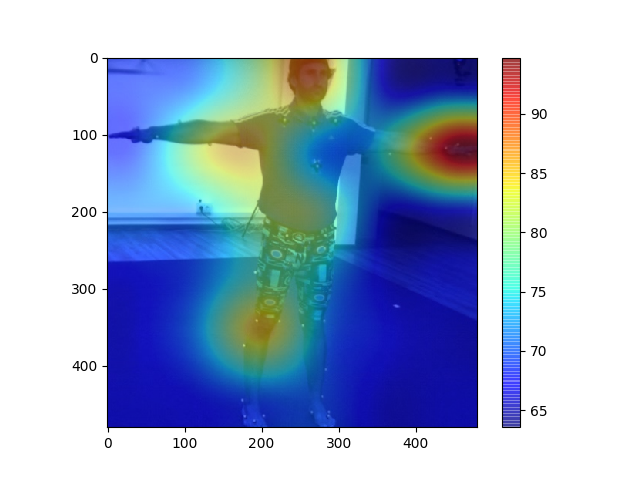
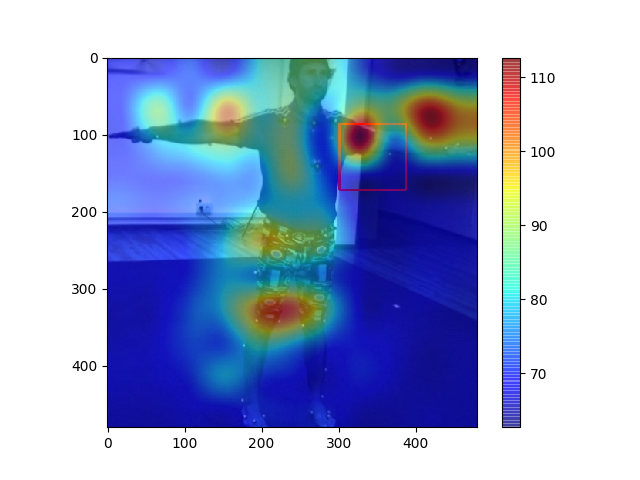
Occlusion Analysis Updated

diff --git a/demo_test.py b/demo_test.py
@@ -1,13 +1,10 @@
 """
 Demo code
-
 To run our method, you need a bounding box around the person. The person needs to be centered inside the bounding box and the bounding box should be relatively tight. You can either supply the bounding box directly or provide an [OpenPose](https://github.com/CMU-Perceptual-Computing-Lab/openpose) detection file. In the latter case we infer the bounding box from the detections.
-
 In summary, we provide 3 different ways to use our demo code and models:
 1. Provide only an input image (using ```--img```), in which case it is assumed that it is already cropped with the person centered in the image.
 2. Provide an input image as before, together with the OpenPose detection .json (using ```--openpose```). Our code will use the detections to compute the bounding box and crop the image.
 3. Provide an image and a bounding box (using ```--bbox```). The expected format for the json file can be seen in ```examples/im1010_bbox.json```.
-
 Example with OpenPose detection .json
 ```
 python3 demo.py --checkpoint=data/model_checkpoint.pt --img=examples/im1010.png --openpose=examples/im1010_openpose.json
@@ -20,7 +17,6 @@ Example with cropped and centered image
 ```
 python3 demo.py --checkpoint=data/model_checkpoint.pt --img=examples/im1010.png
 ```
-
 Running the previous command will save the results in ```examples/im1010_{shape,shape_side}.png```. The file ```im1010_shape.png``` shows the overlayed reconstruction of human shape. We also render a side view, saved in ```im1010_shape_side.png```.
 """
 
@@ -36,10 +32,6 @@ from utils.imutils import crop
 from utils.renderer import Renderer
 import config
 import constants
-from torch.utils.data import DataLoader
-import itertools
-import constants
-from datasets import BaseDataset
 
 parser = argparse.ArgumentParser()
 parser.add_argument('--checkpoint', required=True, help='Path to pretrained checkpoint')
@@ -126,70 +118,59 @@ if __name__ == '__main__':
         pred_output = smpl(betas=pred_betas, body_pose=pred_rotmat[:,1:], global_orient=pred_rotmat[:,0].unsqueeze(1), pose2rot=False)
         pred_vertices = pred_output.vertices
     
-    # Get the predicted 3d joints
-    # Get 14 predicted joints from the mesh
-    J_regressor = torch.from_numpy(np.load(config.JOINT_REGRESSOR_H36M)).float().to(device)
-    joint_mapper_h36m = constants.H36M_TO_J14
-    joint_mapper_gt = constants.J24_TO_J14
-    pred_keypoints_3d = torch.matmul(J_regressor, pred_vertices)
-    pred_pelvis = pred_keypoints_3d[:, [0],:].clone()
-    pred_keypoints_3d = pred_keypoints_3d[:, joint_mapper_h36m, :]
-    pred_keypoints_3d = pred_keypoints_3d - pred_pelvis 
-    pred_keypoints_3d = pred_keypoints_3d.to(device)
-    device = torch.device('cuda') if torch.cuda.is_available() else torch.device('cpu')
+    # Calculate camera parameters for rendering
+    camera_translation = torch.stack([pred_camera[:,1], pred_camera[:,2], 2*constants.FOCAL_LENGTH/(constants.IMG_RES * pred_camera[:,0] +1e-9)],dim=-1)
+    print(camera_translation)
 
-    dataset = BaseDataset(None, 'h36m-p2', is_train=False)
-    data_loader = DataLoader(dataset, batch_size=1, shuffle=False)
-    batch_idx = 15
-    batch = next(itertools.islice(data_loader, batch_idx, None))
-
-    gt_keypoints_3d = batch['pose_3d']
-    joint_mapper_gt = constants.J24_TO_J14
-    gt_keypoints_3d = gt_keypoints_3d[:, joint_mapper_gt, :-1]
-    gt_keypoints_3d = gt_keypoints_3d.to(device)
-
-
-
-    error = torch.sqrt(((pred_keypoints_3d - gt_keypoints_3d) ** 2).sum(dim=-1)).mean(dim=-1).cpu().numpy()
-    print(error[0]*1000)
-    # from utils.geometry import perspective_projection
-    # # camera_center = torch.zeros(1, 2, device= device)
-    # # Calculate camera parameters for rendering
-    # camera_translation = torch.stack([pred_camera[:,1], pred_camera[:,2], 2*constants.FOCAL_LENGTH/(constants.IMG_RES * pred_camera[:,0] +1e-9)],dim=-1)
-    # camera_center = torch.tensor([constants.IMG_RES // 2, constants.IMG_RES // 2])
-    # pred_keypoints_2d = perspective_projection(pred_keypoints_3d,
-    #                                                rotation=torch.eye(3, device=device).unsqueeze(0).expand(1, -1, -1),
-    #                                                translation=camera_translation,
-    #                                                focal_length=constants.FOCAL_LENGTH,
-    #                                                camera_center=camera_center)
 
     
-    # pred_keypoints_2d = pred_keypoints_2d[0].cpu().numpy()
+   
+    # Get 3d predicted points and convert it to 2d
+    J_regressor = torch.from_numpy(np.load(config.JOINT_REGRESSOR_H36M)).float()
+    J_regressor = J_regressor.to(device)
+    pred_keypoints_3d = torch.matmul(J_regressor, pred_vertices)
+    # pred_pelvis = pred_keypoints_3d[:, [0],:].clone()
+    joint_mapper_h36m = constants.H36M_TO_J17
+    pred_keypoints_3d = pred_keypoints_3d[:, joint_mapper_h36m, :]
+    print(pred_keypoints_3d)
+    # pred_keypoints_3d = pred_keypoints_3d - pred_pelvis 
+    # pred_keypoints_3d = pred_keypoints_3d + 1 
+    from utils.geometry import perspective_projection
+    # camera_center = torch.zeros(1, 2, device= device)
+    
+    camera_center = torch.tensor([constants.IMG_RES // 2, constants.IMG_RES // 2])
+    pred_keypoints_2d = perspective_projection(pred_keypoints_3d,
+                                                   rotation=torch.eye(3, device=device).unsqueeze(0).expand(1, -1, -1),
+                                                   translation=camera_translation,
+                                                   focal_length=constants.FOCAL_LENGTH,
+                                                   camera_center=camera_center)
 
-
-    # camera_translation = camera_translation[0].cpu().numpy()
-    # pred_vertices = pred_vertices[0].cpu().numpy()
+    
+    pred_keypoints_2d = pred_keypoints_2d[0].cpu().numpy()
+    pred_vertices = pred_vertices[0].cpu().numpy()
+    camera_translation = camera_translation[0].cpu().numpy()
     img = img.permute(1,2,0).cpu().numpy()
-    img = 255 * img[:,:,::-1]
-    # for i in range(pred_keypoints_2d.shape[0]):
-    #     cv2.circle(img, (int(pred_keypoints_2d[i][0]), int(pred_keypoints_2d[i][1])), 1, color = (255, 0, 0), thickness=-1)
-    # i = 6
-    # cv2.circle(img, (int(pred_keypoints_2d[i][0]), int(pred_keypoints_2d[i][1])), 3, color = (255, 0, 0), thickness=-1)
-    # Joint names: 
+
+    
     # Render parametric shape
-    # img_shape = renderer(pred_vertices, camera_translation, img)
+    img_shape = renderer(pred_vertices, camera_translation, img)
+    img_shape_r = 255* img_shape[:,:,::-1]
+    pred_keypoints_2d = pred_keypoints_2d[:14]
+    # for i in range(pred_keypoints_2d.shape[0]):
+    i = 13
+    cv2.circle(img_shape_r, (int(pred_keypoints_2d[i][0]), int(pred_keypoints_2d[i][1])), 5, color = (255, 0, 0), thickness=-1)
     
     # Render side views
-    # aroundy = cv2.Rodrigues(np.array([0, np.radians(90.), 0]))[0]
-    # center = pred_vertices.mean(axis=0)
-    # rot_vertices = np.dot((pred_vertices - center), aroundy) + center
+    aroundy = cv2.Rodrigues(np.array([0, np.radians(90.), 0]))[0]
+    center = pred_vertices.mean(axis=0)
+    rot_vertices = np.dot((pred_vertices - center), aroundy) + center
     
     # Render non-parametric shape
-    # img_shape_side = renderer(rot_vertices, camera_translation, np.ones_like(img))
+    img_shape_side = renderer(rot_vertices, camera_translation, np.ones_like(img))
 
-    # outfile = args.img.split('.')[0] if args.outfile is None else args.outfile
+    outfile = args.img.split('.')[0] if args.outfile is None else args.outfile
 
     # Save reconstructions
-    # cv2.imwrite(outfile + '_shape.png', 255 * img_shape[:,:,::-1])
-    # cv2.imwrite(outfile + '_shape_side.png', 255 * img_shape_side[:,:,::-1])
-    # cv2.imwrite('test.jpg', img)
+    cv2.imwrite(outfile + '_shape.png', 255 * img_shape[:,:,::-1])
+    cv2.imwrite(outfile + '_shape_r.png', img_shape_r)
+    cv2.imwrite(outfile + '_shape_side.png', 255 * img_shape_side[:,:,::-1])

diff --git a/test.py b/test.py
@@ -7,15 +7,102 @@
 #     os.rename(i, image_list[1000][:36] + "s" + image_list[1000][36:])
 
 import numpy as np
-import cv2
-from utils.imutils import crop
+# import cv2
+# from utils.imutils import crop
 
 data = np.load("data/dataset_extras/3dpw_test.npz")
-print(data['imgname'][27900])
-img_path = "data/3DPW/" + data['imgname'][27900]
+# data = np.load("data/dataset_extras/h36m_valid_protocol2.npz")
+# print(data.files)
+# print(data['S'][0].shape)
+# print(data['keypoints'][27900])
+# for i in range(0, len(data['imgname']), 1000):
+#     print(i)
+#     img_path = "data/3DPW/" + data['imgname'][i]
+#     print(img_path)
+# img_path = "data/3DPW/" + data['imgname'][26893]
 # print(img_path)
-img = cv2.imread(img_path)
+# img = cv2.imread(img_path)
 # center = data['center'][0]
 # scale = data['scale'][0]
 # img = crop(img, center, scale, (224, 224))
-cv2.imwrite('test.jpg', img)
+# cv2.imwrite('test.jpg', img)
+
+import itertools
+from datasets import BaseDataset
+from torch.utils.data import DataLoader
+import torch
+# import cv2
+# import constants
+# from utils.geometry import perspective_projection
+import numpy as np
+from tqdm import tqdm
+# Load the dataloader
+device = torch.device('cuda') if torch.cuda.is_available() else torch.device('cpu')
+dataset_name = '3dpw'
+dataset = BaseDataset(None, dataset_name, is_train=False)
+batch_size = 1000
+data_loader = DataLoader(dataset, batch_size=batch_size, shuffle=False)
+for batch_idx, batch in enumerate(tqdm(data_loader, desc='Eval', total=len(data_loader))):
+    print(batch['imgname'][-1])
+
+
+
+# batch_idx = 8000-810
+# batch = next(itertools.islice(data_loader, batch_idx, None))
+
+# img = batch['img']
+# keypoints = batch['pose']
+
+
+# # preparing the image
+# from utils.imutils import crop
+# img_orig = cv2.imread(batch['imgname'][0])
+# output_size = 224
+# print(batch['imgname'][0])
+# center = batch['center'][0]
+# scale = batch['scale'][0]
+# img_crop = crop(img_orig, center, scale, (output_size, output_size))
+# cv2.imwrite('./examples/image_00000.jpg', img_crop)
+
+
+# camera_translation = batch['translation'].to(device)
+# # #preparing 3D keypoints
+# keypoints = torch.reshape(keypoints, (-1, 24, 3))
+# joint_mapper_h36m = constants.H36M_TO_J17
+# keypoints = keypoints[:, joint_mapper_h36m, :]
+# keypoints = keypoints [:, :14, :].to(device)
+# # keypoints = 255 * keypoints + 112
+# print(keypoints)
+
+
+# # Projecting 3D keypoints to 2D keypoints
+
+# camera_center = torch.tensor([constants.IMG_RES // 2, constants.IMG_RES // 2])
+# pred_keypoints_2d = perspective_projection(keypoints,
+#                                                 rotation=torch.eye(3, device=device).unsqueeze(0).expand(1, -1, -1),
+#                                                 translation=camera_translation,
+#                                                 focal_length=constants.FOCAL_LENGTH,
+#                                                 camera_center=camera_center)
+# pred_keypoints_2d = pred_keypoints_2d[0].cpu().numpy()
+
+
+
+# # Preparing the image for visualization
+# img = img * torch.tensor([0.229, 0.224, 0.225], device=img.device).reshape(1, 3, 1, 1)
+# img = img + torch.tensor([0.485, 0.456, 0.406], device=img.device).reshape(1, 3, 1, 1)
+# img = img[0].permute(1,2,0).cpu().numpy()
+# img = 255 * img[:,:,::-1]
+# imgc = img.copy()
+
+# for i in range(14):
+#     # cv2.circle(imgc, (int(pred_keypoints_2d[i][0]), int(pred_keypoints_2d[i][1])), 5, color = (255, 0, 0), thickness=-1)
+#     cv2.circle(imgc, (int(keypoints[0][i][0]), int(keypoints[0][i][1])), 5, color = (255, 0, 0), thickness=-1)
+
+
+# cv2.imwrite('test.jpg', imgc)
+
+
+# # img = cv2.imread(batch['imgname'][0])
+
+# # print(batch['img'][0])
+# # print(batch['pose'][0])

diff --git a/datasets/preprocess/pw3d.py b/datasets/preprocess/pw3d.py
@@ -9,9 +9,9 @@ def pw3d_extract(dataset_path, out_path):
     scaleFactor = 1.2
 
     # structs we use
-    imgnames_, scales_, centers_, parts_ = [], [], [], []
-    poses_, shapes_, genders_ = [], [], [] 
-
+    imgnames_, scales_, centers_ = [], [], []
+    poses_, shapes_, genders_, translation_ = [], [], [], []
+    parts_ = []
     # get a list of .pkl files in the directory
     dataset_path = os.path.join(dataset_path, 'sequenceFiles', 'test')
     files = [os.path.join(dataset_path, f) 
@@ -50,6 +50,7 @@ def pw3d_extract(dataset_path, out_path):
                     
                     # transform global pose
                     pose = valid_pose[valid_i]
+                    # translation = valid_global_poses[valid_i][:3,3]
                     extrinsics = valid_global_poses[valid_i][:3,:3]
                     pose[:3] = cv2.Rodrigues(np.dot(extrinsics, cv2.Rodrigues(pose[:3])[0]))[0].T[0]                      
 
@@ -59,15 +60,22 @@ def pw3d_extract(dataset_path, out_path):
                     poses_.append(pose)
                     shapes_.append(valid_betas[valid_i])
                     genders_.append(gender)
+                    parts_.append(part)
+                    # translation_.append(translation)
 
     # store data
+    # translation_ = np.array(translation_, dtype=object)
     if not os.path.isdir(out_path):
         os.makedirs(out_path)
     out_file = os.path.join(out_path,
-        '3dpw_test.npz')
+        '3dpw_test_m.npz')
     np.savez(out_file, imgname=imgnames_,
                        center=centers_,
                        scale=scales_,
                        pose=poses_,
                        shape=shapes_,
-                       gender=genders_)
+                       gender=genders_,
+                    #    translation=translation_,
+                       )
+
+pw3d_extract('./data/3DPW', './data/dataset_extras')

diff --git a/occlusion_analysis.py b/occlusion_analysis.py
@@ -1,4 +1,4 @@
-# python3 occlusion_analysis02.py --checkpoint=data/model_checkpoint.pt --dataset=3dpw
+# python3 occlusion_analysis.py --checkpoint=data/model_checkpoint.pt --dataset=3dpw
 # This runs through whole dataset and generates the occluded images and error per joint
 import math
 import torch
@@ -51,8 +51,8 @@ def visualize_grid(image, heatmap, batch_idx):
     # Gets the image and heatmap and combine the two and show the result for each joint
     # image -> Torch.Size([1, 3, 224, 224])
     # heatmap -> (6, 6, 14)
-    # De-normalizing the image
 
+    # De-normalizing the image
     image = image * torch.tensor([0.229, 0.224, 0.225], device=image.device).reshape(1, 3, 1, 1)
     image = image + torch.tensor([0.485, 0.456, 0.406], device=image.device).reshape(1, 3, 1, 1)
 
@@ -122,10 +122,8 @@ def visualize_grid_mean(batch, heatmap, batch_idx, idx_dict, args):
     # Put a box over the maximum
     heatmap_mean_org = orig_heatmap.mean(axis=2)
     heatmap_mean_org = 1000 * heatmap_mean_org
-    # print(np.argmax(heatmap_mean_org))
     h = idx_dict[np.argmax(heatmap_mean_org)][0]
     w = idx_dict[np.argmax(heatmap_mean_org)][1]
-
     img_size = int(img_orig.shape[0])
     occ_stride = int(round(args.stride * (output_size/loader_size)))
     occ_size = int(round(args.occ_size * (output_size/loader_size)))
@@ -177,7 +175,7 @@ def run_dataset(args):
         # batch_idx =i
         # batch = next(iter(data_loader))
     # batch_idx = 2400
-    batch_idx = 27900
+    batch_idx = 26893
     batch = next(itertools.islice(data_loader, batch_idx, None))
     print(batch['imgname'][0])
     images = batch['img']

diff --git a/datasets/base_dataset.py b/datasets/base_dataset.py
@@ -10,6 +10,7 @@ from os.path import join
 import config
 import constants
 from utils.imutils import crop, flip_img, flip_pose, flip_kp, transform, rot_aa
+import numpy as np
 
 class BaseDataset(Dataset):
     """
@@ -25,8 +26,11 @@ class BaseDataset(Dataset):
         self.options = options
         self.img_dir = config.DATASET_FOLDERS[dataset]
         self.normalize_img = Normalize(mean=constants.IMG_NORM_MEAN, std=constants.IMG_NORM_STD)
-        self.data = np.load(config.DATASET_FILES[is_train][dataset])
+        self.data = np.load(config.DATASET_FILES[is_train][dataset], allow_pickle=True)
         self.imgname = self.data['imgname']
+        # self.translation = self.data['translation']
+        # self.translation = np.array(self.translation, dtype=np.float32)
+
         
         # Get paths to gt masks, if available
         try:
@@ -215,7 +219,7 @@ class BaseDataset(Dataset):
         # Get 2D keypoints and apply augmentation transforms
         keypoints = self.keypoints[index].copy()
         item['keypoints'] = torch.from_numpy(self.j2d_processing(keypoints, center, sc*scale, rot, flip)).float()
-
+        # item['translation'] = self.translation[index]
         item['has_smpl'] = self.has_smpl[index]
         item['has_pose_3d'] = self.has_pose_3d
         item['scale'] = float(sc * scale)

diff --git a/config.py b/config.py
@@ -28,6 +28,7 @@ DATASET_FILES = [ {'h36m-p1': join(DATASET_NPZ_PATH, 'h36m_valid_protocol1.npz')
                    'h36m-p2': join(DATASET_NPZ_PATH, 'h36m_valid_protocol2.npz'),
                    'lsp': join(DATASET_NPZ_PATH, 'lsp_dataset_test.npz'),
                    'mpi-inf-3dhp': join(DATASET_NPZ_PATH, 'mpi_inf_3dhp_valid.npz'),
+                  #  '3dpw': join(DATASET_NPZ_PATH, '3dpw_test_m.npz'),
                    '3dpw': join(DATASET_NPZ_PATH, '3dpw_test.npz'),
                   },
 
